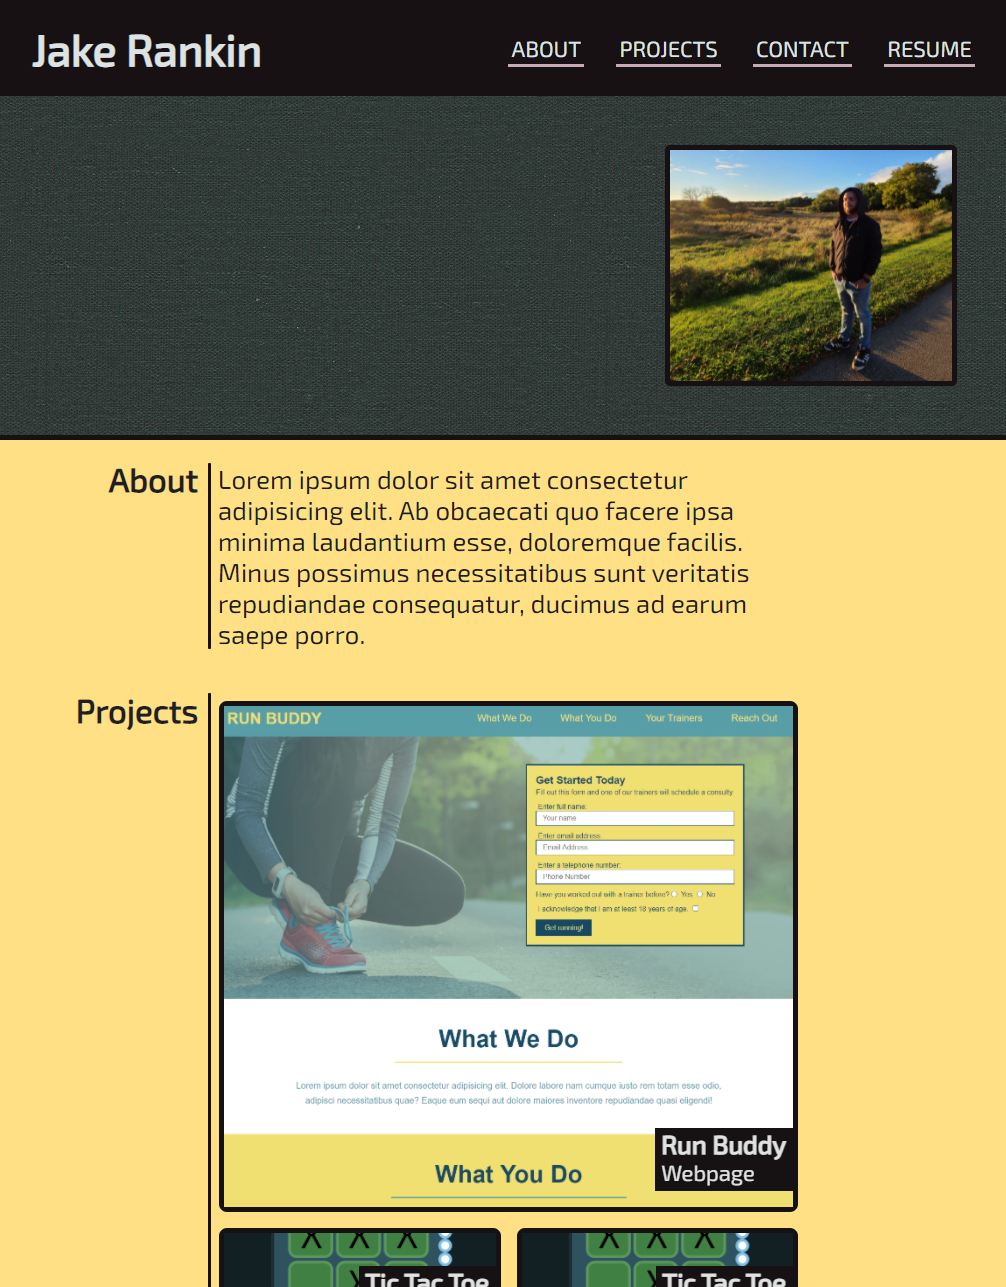
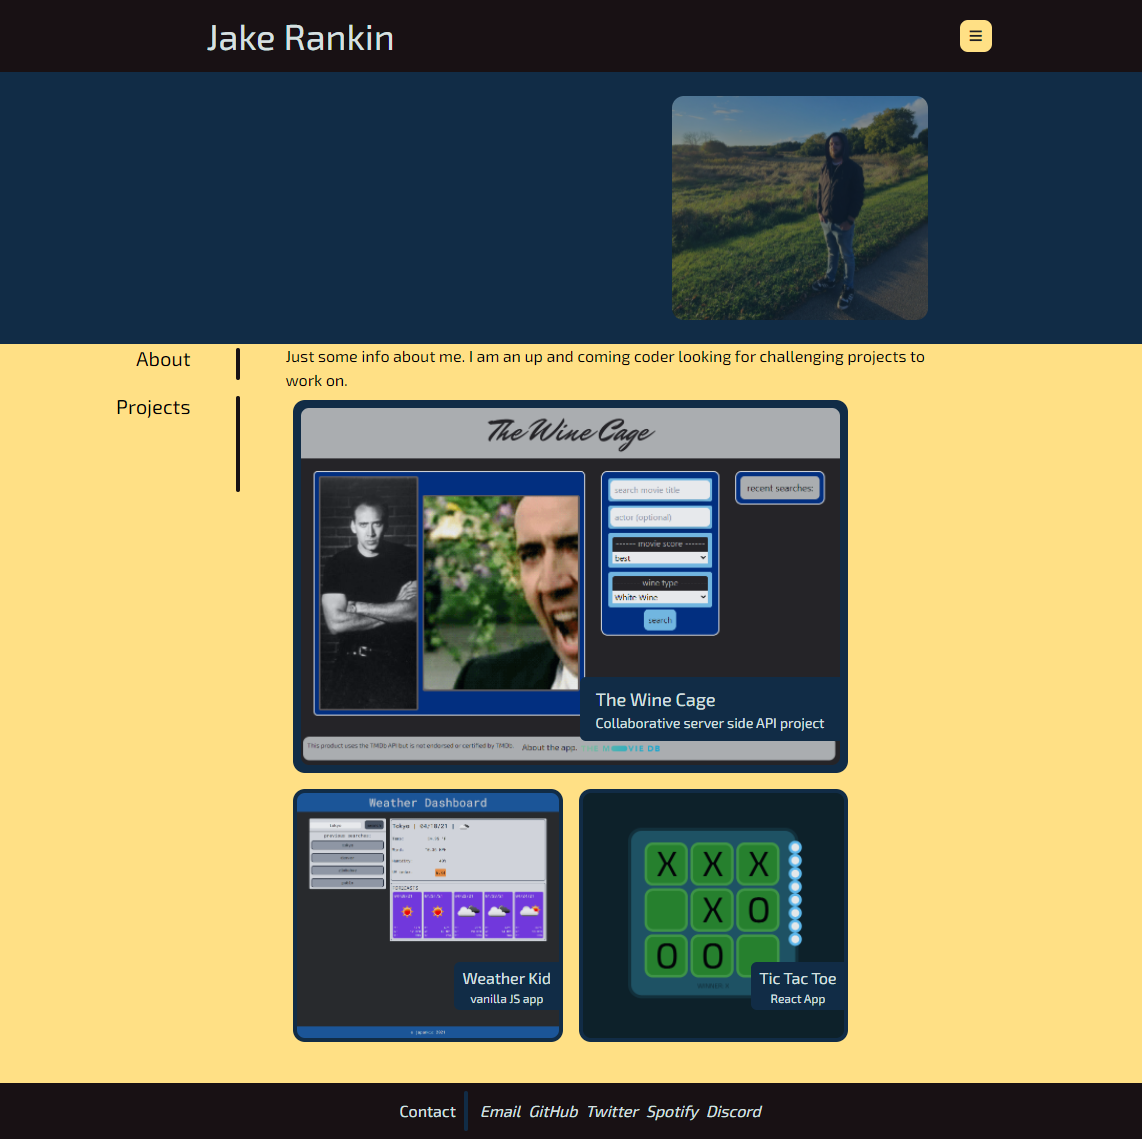
update readme

diff --git a/README.md b/README.md
@@ -1,11 +1,16 @@
 # portfolio space
 
-a page to display my current and ongoing projects.
-initially made to complete a challenge for UW boot camp.
+a simple page to display my current and ongoing projects.
 
 ## links
 
 The [repo is here](https://github.com/japankid-code/portfolio-space), site is [deployed here](https://japankid-code.github.io/portfolio-space/)
+
+## repos listed
+
+- [the wine cage](https://bootcamp-project1.github.io/The-wine-cage/).
+- [weather dashboard](https://japankid-code.github.io/weather-kid/).
+- [tic tac toe](https://japankid-code.github.io/reactactoe/).
 
 ### preview
 
